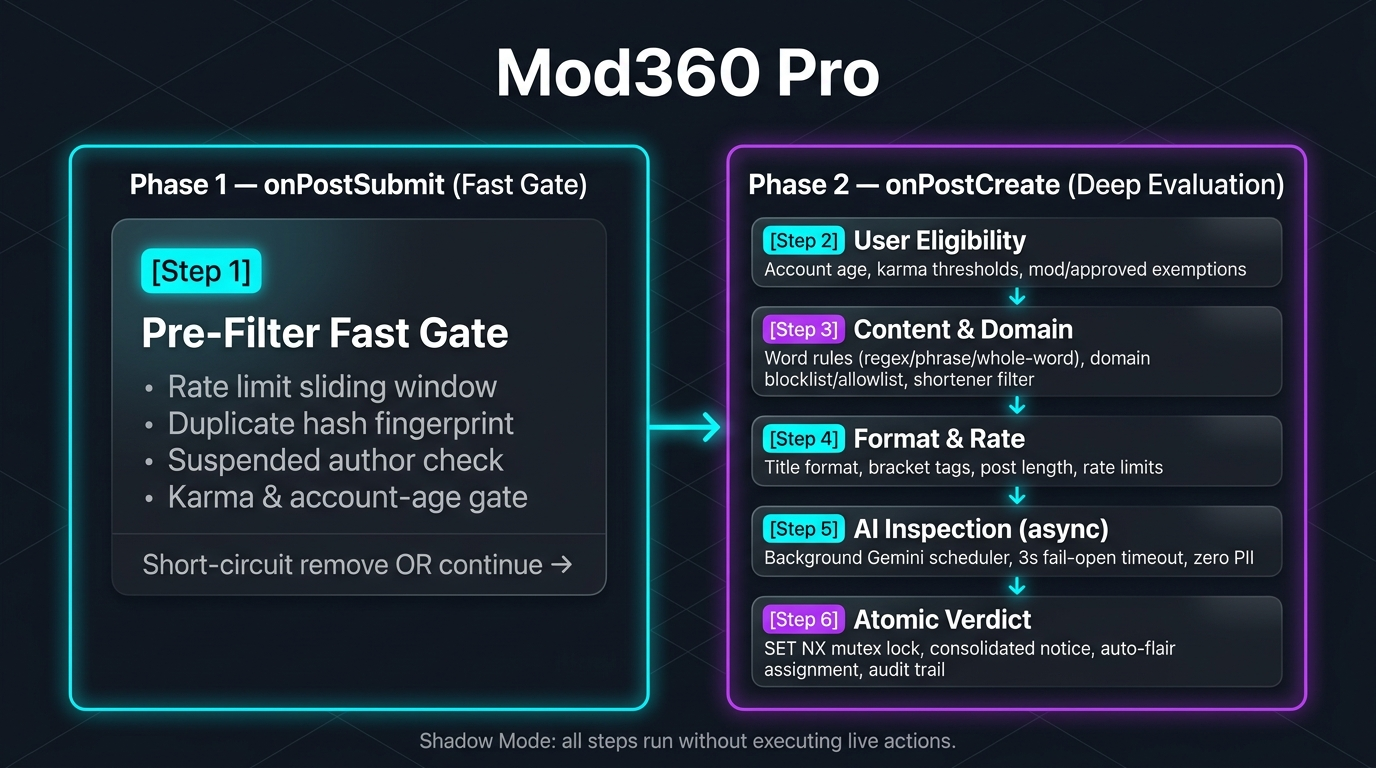
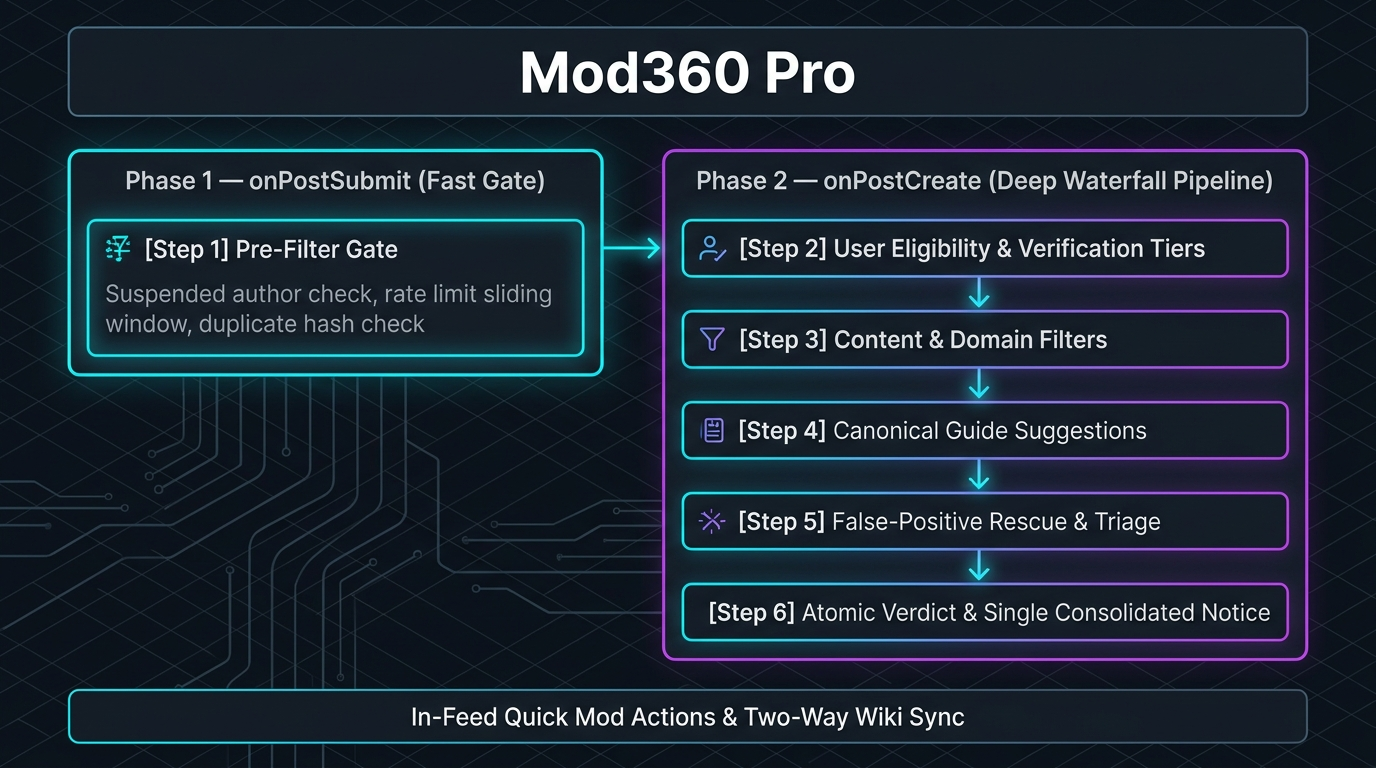
chore: update assets for ultimate-wwe v0.0.4

Changed region(s): [[0.0, 0.0312, 0.9688, 1.0]]

diff --git a/mod360pro/readme.html b/mod360pro/readme.html
@@ -1,11 +1,13 @@
 <blockquote><p>📖 <strong>User Guide &amp; Overview</strong> | ⚙ <a href="https://www.reddit.com/r/grantdb/wiki/index/all-apps/mod360pro">View Deep Technical Reference &amp; Settings Spec</a></p></blockquote>
 <h1>Mod360 Pro</h1>
-<blockquote><p><strong>The ultimate 360-degree Reddit moderation powerhouse consolidating 14+ moderation tools into a single, lightning-fast waterfall engine.</strong></p></blockquote>
-<p>Mod360 Pro unifies keyword filters, domain policies, rate limits, duplicate detection, user eligibility gates, auto-flairing, and AI spam inspection into a coordinated, atomic moderation pipeline. Eliminate container duplication, end multi-bot sticky comment spam, and control your entire community protection from a sleek glassmorphic dashboard.</p>
+<blockquote><p><strong>The ultimate 360-degree Reddit moderation powerhouse consolidating 14+ moderation tools — including suspended-remove, verify-guard, archive-guard, queue-guard, rescue-guard, wiki-guard, and mod-snapshot — into a single, lightning-fast waterfall engine.</strong></p></blockquote>
+<p>Mod360 Pro unifies keyword filters, domain policies, rate limits, duplicate detection, user eligibility & verification gates, canonical guide clustering, false-positive rescue triage, two-way wiki sync, and disaster recovery snapshots into a coordinated, atomic moderation pipeline. Eliminate container duplication, end multi-bot sticky comment spam, and control your entire community protection from a sleek glassmorphic dashboard.</p>
 <h3>⚡ Key Highlights</h3>
 <ul>
-<li><strong>Atomic Two-Phase Waterfall Engine</strong>: Sub-50ms pre-AutoMod Redis fast-path (`onPostSubmit`) for spam floods, followed by deep multi-module content evaluation (`onPostCreate`).</li>
+<li><strong>Atomic Two-Phase Waterfall Engine</strong>: Sub-10ms pre-AutoMod Redis fast-path (`onPostSubmit`) for spam floods, followed by deep multi-module content evaluation (`onPostCreate`).</li>
 <li><strong>Single Consolidated Moderation Notice</strong>: No more competing bot comments. Violations across all modules accumulate into exactly one structured, professional notice.</li>
+<li><strong>7 Consolidated Moderation Powerhouses</strong>: Built-in gates for suspended account pre-filtering, flair & email verification tiers, canonical wiki guide suggestions, 0–100 safety score calculation, false-positive rescue triage, two-way wiki sync, and modmail disaster recovery snapshots.</li>
+<li><strong>In-Feed Mod Quick Actions</strong>: Instant context menu tools (`Check Reputation`, `Quick Approve`, `Quick Remove`, and `Export Backup to Modmail`) directly on community posts and comments.</li>
 <li><strong>Mutual-Exclusion Atomic Verdict Lock</strong>: `SET NX` concurrency locks eliminate double-removal race conditions and container collisions across all trigger events.</li>
 <li><strong>Zero-Risk Shadow Testing Mode</strong>: Safely run Mod360 Pro in background shadow mode with automated divergence tracking before switching to live enforcement.</li>
 </ul>
@@ -13,10 +15,10 @@
 <h2>How It Works</h2>
 <p><a href="https://raw.githubusercontent.com/grantdb/reddit-app-legal/main/assets/flowcharts/mod360pro-flowchart.png">Logic Flowchart</a></p>
 <h3>The 5-Step Lifecycle</h3>
-<p>1. <strong>Pre-Filter (onPostSubmit)</strong>: New submissions hit fast Redis-only gates (< 50ms) to check suspended authors, sliding-window rate limits, duplicate hash fingerprints, and karma/age eligibility.</p>
+<p>1. <strong>Pre-Filter (onPostSubmit)</strong>: New submissions hit fast Redis-only gates (< 10ms) to check suspended/shadowbanned authors (`suspended-remove`), sliding-window rate limits, duplicate hash fingerprints, and verification gates (`verify-guard`).</p>
 <p>2. <strong>Deep Content Evaluation (onPostCreate)</strong>: Surviving posts undergo modular inspection for domain allow/blocklists, prohibited keywords, title formatting, and composite rules.</p>
-<p>3. <strong>Asynchronous AI Inspection</strong>: Content requiring deep semantic analysis is scheduled with zero delay for background Gemini evaluation without blocking the trigger handler.</p>
-<p>4. <strong>Atomic Verdict & Single Sticky Notice</strong>: When violations occur, Mod360 Pro locks the verdict atomically and formats a single, clean markdown notice with clear community guidelines.</p>
+<p>3. <strong>Canonical Guide Suggestions</strong>: Clean, non-violating submissions are evaluated against community topic keywords to suggest authoritative guides (`archive-guard`).</p>
+<p>4. <strong>Atomic Verdict & Single Sticky Notice</strong>: When violations occur, Mod360 Pro locks the verdict atomically, logs candidate details for false-positive rescue (`rescue-guard`), and formats a single clean markdown notice.</p>
 <p>5. <strong>Auto-Flair & Mod Actions</strong>: Clean submissions receive automated flair matching, while removed content is automatically locked and logged to the unified audit trail.</p>
 <p>---</p>
 <h2>Quick Setup (60-Second Onboarding)</h2>
@@ -24,15 +26,21 @@
 <p>2. <strong>Open Dashboard</strong>: Click <strong>GuardHub: Mod360 Pro Dashboard</strong> in Subreddit Mod Tools.</p>
 <p>3. <strong>Review Shadow Mode</strong>: Review the pre-configured rules in Shadow Mode to verify accuracy against live community traffic.</p>
 <p>4. <strong>Activate Live Enforcement</strong>: Once verified, toggle the operational mode to <strong>Live Enforcement</strong> in the Overview tab.</p>
-<p>*All settings, rules, and audit logs are managed directly within your native dashboard.*</p>
+<p>*All settings, rules, wiki sync, and audit logs are managed directly within your native dashboard.*</p>
 <p>---</p>
-<h2>Core Features</h2>
+<h2>Core Capabilities & Consolidated Powerhouses</h2>
 <ul>
-<li><strong>Unified Frequency Limiter</strong>: Sliding-window rate limiter preventing submission floods, burst spam, and rapid-fire cross-posting.</li>
-<li><strong>Domain & Shortener Guard</strong>: Built-in protection against link shorteners, affiliate redirects, and unapproved external domains.</li>
+<li><strong>Suspended Account Pre-Filter (`suspended-remove`)</strong>: Sub-10ms fast gate rejecting suspended, shadowbanned, or deleted accounts before other checks run.</li>
+<li><strong>Verification Tiers & Email Gates (`verify-guard`)</strong>: Require approved author flair templates, flair badges, or verified Reddit email addresses.</li>
+<li><strong>Canonical Guide Suggestions (`archive-guard`)</strong>: Automatically match submissions against community guide topics and post helpful guide links on clean posts.</li>
+<li><strong>Reputation Safety Score & Mod Menu Actions (`queue-guard`)</strong>: 0–100 reputation score calculated from account age, karma, and status with in-feed menu actions (`Check Reputation`, `Quick Approve`, `Quick Remove`).</li>
+<li><strong>False-Positive Rescue Hub (`rescue-guard`)</strong>: Triage hub in dashboard capturing edge-case removals for instant 1-click restoration.</li>
+<li><strong>Two-Way Wiki Policy Sync (`wiki-guard`)</strong>: Synchronize active content rules, domain policies, and user gates directly to and from `r/subreddit/wiki/mod360_rules`.</li>
+<li><strong>Disaster Recovery Backup (`mod-snapshot`)</strong>: 1-click snapshot dispatching the entire encrypted configuration to mod team modmail for permanent backup.</li>
+<li><strong>Sliding-Window Frequency Limiter</strong>: Redis sliding-window counters preventing burst spam, rapid submissions, and cross-posting floods.</li>
+<li><strong>Domain & Shortener Guard</strong>: Built-in blocklists for URL shorteners, chat invites, tracking parameters, and unapproved domains.</li>
 <li><strong>Regex & Keyword Engine</strong>: Multi-pattern keyword groups with word-boundary matching, case-sensitivity controls, and instant test simulation.</li>
-<li><strong>Automated Shadow Parity Queue</strong>: Automatically logs discrepancies between legacy moderation actions and Mod360 Pro predictions for zero-risk migration.</li>
-<li><strong>Fleet Standard Responsive Dashboard</strong>: Native, inline webview control center with smooth 48px stepped tab scrolling and mobile auto-zoom protection.</li>
+<li><strong>Fleet Standard Responsive Dashboard</strong>: Native webview control center with theme switching (☀/🌙), fullscreen mode (⛶/🗗), 48px stepped tab navigation, and mobile auto-zoom protection.</li>
 </ul>
 <p>---</p>
 <h2>The Old Way vs. The Mod360 Pro Way</h2>

diff --git a/mod360pro/wiki.html b/mod360pro/wiki.html
@@ -11,15 +11,6 @@ Summary: Unified 360-degree moderation engine and waterfall pipeline consolidati
 <h2>Flowchart</h2>
 <p><a href="https://raw.githubusercontent.com/grantdb/reddit-app-legal/main/assets/flowcharts/mod360pro-flowchart.png">View flowchart image</a></p>
 
-<h2>Key Features</h2>
-<ul>
-<li>Unified Frequency Limiter: Sliding-window rate limiter preventing submission floods, burst spam, and rapid-fire cross-posting.</li>
-<li>Domain & Shortener Guard: Built-in protection against link shorteners, affiliate redirects, and unapproved external domains.</li>
-<li>Regex & Keyword Engine: Multi-pattern keyword groups with word-boundary matching, case-sensitivity controls, and instant test simulation.</li>
-<li>Automated Shadow Parity Queue: Automatically logs discrepancies between legacy moderation actions and Mod360 Pro predictions for zero-risk migration.</li>
-<li>Fleet Standard Responsive Dashboard: Native, inline webview control center with smooth 48px stepped tab scrolling and mobile auto-zoom protection.</li>
-</ul>
-
 <h2>Permissions Used</h2>
 <ul>
 <li>reddit: Reddit API access (moderation actions, post/comment fetching, modmail)</li>
@@ -42,9 +33,9 @@ Summary: Unified 360-degree moderation engine and waterfall pipeline consolidati
 <ul>
 <li>Submits Automated Comments: Yes — Posts automated comments on target submissions.</li>
 <li>Attaches Removal Notes: No — Does not attach removal notes.</li>
-<li>Approves Content: No — Does not approve content.</li>
+<li>Approves Content: Yes — Automatically approves eligible content.</li>
 <li>Removes or Filters Content: Yes — Removes or filters non-compliant submissions.</li>
-<li>Dispatches Modmail Alerts: No — Does not send modmail notifications.</li>
+<li>Dispatches Modmail Alerts: Yes — Sends notifications or summaries to modmail.</li>
 <li>Updates User or Post Flair: Yes — Updates post or user flair based on rules.</li>
 </ul>
 
@@ -61,7 +52,7 @@ Summary: Unified 360-degree moderation engine and waterfall pipeline consolidati
 <li>Open Dashboard: Click GuardHub: Mod360 Pro Dashboard in Subreddit Mod Tools.</li>
 <li>Review Shadow Mode: Review the pre-configured rules in Shadow Mode to verify accuracy against live community traffic.</li>
 <li>Activate Live Enforcement: Once verified, toggle the operational mode to Live Enforcement in the Overview tab.</li>
-<li>All settings, rules, and audit logs are managed directly within your native dashboard.*</li>
+<li>All settings, rules, wiki sync, and audit logs are managed directly within your native dashboard.*</li>
 </ul>
 
 <h2>Troubleshooting</h2>

diff --git a/ultimate-wwe/wiki.html b/ultimate-wwe/wiki.html
@@ -1,7 +1,7 @@
 <h1>Ultimate WWE Hub</h1>
 
 <p>Category: Interactive<br>
-Version: v0.0.3<br>
+Version: v0.0.4<br>
 Visibility: Unlisted<br>
 Summary: Interactive WWE live event mega-thread engine with match cards, pick 'em prediction game, and dual leaderboards.</p>
 
@@ -56,12 +56,12 @@ Summary: Interactive WWE live event mega-thread engine with match cards, pick 'e
 </ul>
 
 <h2>Version History</h2>
+<p>0.0.4 — 2026-09-23<br>
+Standard fleet synchronization and maintenance.</p>
 <p>0.0.3 — 2026-09-21<br>
 Standard fleet synchronization and maintenance.</p>
 <p>0.0.2 — 2026-09-20<br>
 Standard fleet synchronization and maintenance.; All notable changes to the Ultimate WWE Hub application will be documented in this file.</p>
-<p>0.2.0 — 2026-09-20<br>
-Expanded Ultimate WWE Hub into a multi-post ecosystem with 3 dedicated custom post types:; Live Event & Prediction Mega-Threads; Community Championship Belts Trophy Case & All-Time Leaderboards; Upcoming Matches & PLE Schedule Hub; Implemented Community Championship Belts Engine featuring World Heavyweight, Intercontinental, PLE Cup, 24/7 Hardcore, and Women's World Championship titles with automated title defense and transfers on event scoring.; Added Live PLE Countdown Timer with millisecond precision and weekly broadcast schedule guide (Raw on Netflix, SmackDown on USA, NXT on CW).; Added Community Hype Voting Meter for upcoming fight cards and shows.; Added cross-post navigation hub banner connecting all community posts.; Implemented canonical horizontal top-bar navigation scrolling (◀ and ▶) with 48px fine-tuned steps, continuous long-press acceleration, and visible high-contrast scrollbars.; Added moderator controls to manually award championship belts to community members.</p>
 
 <h2>Links</h2>
 <ul>

diff --git a/mod360pro/readme.md b/mod360pro/readme.md
@@ -2,13 +2,15 @@
 
 # Mod360 Pro
 
-> **The ultimate 360-degree Reddit moderation powerhouse consolidating 14+ moderation tools into a single, lightning-fast waterfall engine.**
+> **The ultimate 360-degree Reddit moderation powerhouse consolidating 14+ moderation tools — including suspended-remove, verify-guard, archive-guard, queue-guard, rescue-guard, wiki-guard, and mod-snapshot — into a single, lightning-fast waterfall engine.**
 
-Mod360 Pro unifies keyword filters, domain policies, rate limits, duplicate detection, user eligibility gates, auto-flairing, and AI spam inspection into a coordinated, atomic moderation pipeline. Eliminate container duplication, end multi-bot sticky comment spam, and control your entire community protection from a sleek glassmorphic dashboard.
+Mod360 Pro unifies keyword filters, domain policies, rate limits, duplicate detection, user eligibility & verification gates, canonical guide clustering, false-positive rescue triage, two-way wiki sync, and disaster recovery snapshots into a coordinated, atomic moderation pipeline. Eliminate container duplication, end multi-bot sticky comment spam, and control your entire community protection from a sleek glassmorphic dashboard.
 
 ### ⚡ Key Highlights
-- **Atomic Two-Phase Waterfall Engine**: Sub-50ms pre-AutoMod Redis fast-path (`onPostSubmit`) for spam floods, followed by deep multi-module content evaluation (`onPostCreate`).
+- **Atomic Two-Phase Waterfall Engine**: Sub-10ms pre-AutoMod Redis fast-path (`onPostSubmit`) for spam floods, followed by deep multi-module content evaluation (`onPostCreate`).
 - **Single Consolidated Moderation Notice**: No more competing bot comments. Violations across all modules accumulate into exactly one structured, professional notice.
+- **7 Consolidated Moderation Powerhouses**: Built-in gates for suspended account pre-filtering, flair & email verification tiers, canonical wiki guide suggestions, 0–100 safety score calculation, false-positive rescue triage, two-way wiki sync, and modmail disaster recovery snapshots.
+- **In-Feed Mod Quick Actions**: Instant context menu tools (`Check Reputation`, `Quick Approve`, `Quick Remove`, and `Export Backup to Modmail`) directly on community posts and comments.
 - **Mutual-Exclusion Atomic Verdict Lock**: `SET NX` concurrency locks eliminate double-removal race conditions and container collisions across all trigger events.
 - **Zero-Risk Shadow Testing Mode**: Safely run Mod360 Pro in background shadow mode with automated divergence tracking before switching to live enforcement.
 
@@ -20,10 +22,10 @@ Mod360 Pro unifies keyword filters, domain policies, rate limits, duplicate dete
 
 ### The 5-Step Lifecycle
 
-1. **Pre-Filter (onPostSubmit)**: New submissions hit fast Redis-only gates (< 50ms) to check suspended authors, sliding-window rate limits, duplicate hash fingerprints, and karma/age eligibility.
+1. **Pre-Filter (onPostSubmit)**: New submissions hit fast Redis-only gates (< 10ms) to check suspended/shadowbanned authors (`suspended-remove`), sliding-window rate limits, duplicate hash fingerprints, and verification gates (`verify-guard`).
 2. **Deep Content Evaluation (onPostCreate)**: Surviving posts undergo modular inspection for domain allow/blocklists, prohibited keywords, title formatting, and composite rules.
-3. **Asynchronous AI Inspection**: Content requiring deep semantic analysis is scheduled with zero delay for background Gemini evaluation without blocking the trigger handler.
-4. **Atomic Verdict & Single Sticky Notice**: When violations occur, Mod360 Pro locks the verdict atomically and formats a single, clean markdown notice with clear community guidelines.
+3. **Canonical Guide Suggestions**: Clean, non-violating submissions are evaluated against community topic keywords to suggest authoritative guides (`archive-guard`).
+4. **Atomic Verdict & Single Sticky Notice**: When violations occur, Mod360 Pro locks the verdict atomically, logs candidate details for false-positive rescue (`rescue-guard`), and formats a single clean markdown notice.
 5. **Auto-Flair & Mod Actions**: Clean submissions receive automated flair matching, while removed content is automatically locked and logged to the unified audit trail.
 
 ---
@@ -35,17 +37,23 @@ Mod360 Pro unifies keyword filters, domain policies, rate limits, duplicate dete
 3. **Review Shadow Mode**: Review the pre-configured rules in Shadow Mode to verify accuracy against live community traffic.
 4. **Activate Live Enforcement**: Once verified, toggle the operational mode to **Live Enforcement** in the Overview tab.
 
-*All settings, rules, and audit logs are managed directly within your native dashboard.*
+*All settings, rules, wiki sync, and audit logs are managed directly within your native dashboard.*
 
 ---
 
-## Core Features
+## Core Capabilities & Consolidated Powerhouses
 
-- **Unified Frequency Limiter**: Sliding-window rate limiter preventing submission floods, burst spam, and rapid-fire cross-posting.
-- **Domain & Shortener Guard**: Built-in protection against link shorteners, affiliate redirects, and unapproved external domains.
+- **Suspended Account Pre-Filter (`suspended-remove`)**: Sub-10ms fast gate rejecting suspended, shadowbanned, or deleted accounts before other checks run.
+- **Verification Tiers & Email Gates (`verify-guard`)**: Require approved author flair templates, flair badges, or verified Reddit email addresses.
+- **Canonical Guide Suggestions (`archive-guard`)**: Automatically match submissions against community guide topics and post helpful guide links on clean posts.
+- **Reputation Safety Score & Mod Menu Actions (`queue-guard`)**: 0–100 reputation score calculated from account age, karma, and status with in-feed menu actions (`Check Reputation`, `Quick Approve`, `Quick Remove`).
+- **False-Positive Rescue Hub (`rescue-guard`)**: Triage hub in dashboard capturing edge-case removals for instant 1-click restoration.
+- **Two-Way Wiki Policy Sync (`wiki-guard`)**: Synchronize active content rules, domain policies, and user gates directly to and from `r/subreddit/wiki/mod360_rules`.
+- **Disaster Recovery Backup (`mod-snapshot`)**: 1-click snapshot dispatching the entire encrypted configuration to mod team modmail for permanent backup.
+- **Sliding-Window Frequency Limiter**: Redis sliding-window counters preventing burst spam, rapid submissions, and cross-posting floods.
+- **Domain & Shortener Guard**: Built-in blocklists for URL shorteners, chat invites, tracking parameters, and unapproved domains.
 - **Regex & Keyword Engine**: Multi-pattern keyword groups with word-boundary matching, case-sensitivity controls, and instant test simulation.
-- **Automated Shadow Parity Queue**: Automatically logs discrepancies between legacy moderation actions and Mod360 Pro predictions for zero-risk migration.
-- **Fleet Standard Responsive Dashboard**: Native, inline webview control center with smooth 48px stepped tab scrolling and mobile auto-zoom protection.
+- **Fleet Standard Responsive Dashboard**: Native webview control center with theme switching (☀/🌙), fullscreen mode (⛶/🗗), 48px stepped tab navigation, and mobile auto-zoom protection.
 
 ---
 
@@ -55,8 +63,9 @@ Mod360 Pro unifies keyword filters, domain policies, rate limits, duplicate dete
 | :--- | :--- |
 | 10–15 separate apps spinning up redundant containers per post | **Single container, unified pipeline** with 93% less resource overhead |
 | 2–3 different bots posting competing sticky comments on removed posts | **Exactly one consolidated notice** detailing all rule violations clearly |
-| Multiple fragmented settings panels across a dozen different apps | **One centralized glassmorphic control center** with 7 organized tabs |
-| Untraceable race conditions and double-removals in mod log | **Atomic `SET NX` locks** guaranteeing deterministic, single-owner execution |
+| Multiple fragmented settings panels across a dozen different apps | **One centralized glassmorphic control center** with 10 organized tabs |
+| Manual, untraceable false-positive recoveries across separate queues | **Integrated Rescue Hub & 0–100 Reputation Safety Score** |
+| Fragile local settings lost on app uninstall or reinstall | **Automated Two-Way Wiki Sync & Modmail Disaster Backups** |
 
 ---
 

diff --git a/mod360pro/wiki.md b/mod360pro/wiki.md
@@ -12,11 +12,7 @@ Unified 360-degree moderation engine and waterfall pipeline consolidating 14+ mo
 [View flowchart image](https://raw.githubusercontent.com/grantdb/reddit-app-legal/main/assets/flowcharts/mod360pro-flowchart.png)
 
 ## Key Features
-- Unified Frequency Limiter: Sliding-window rate limiter preventing submission floods, burst spam, and rapid-fire cross-posting.
-- Domain & Shortener Guard: Built-in protection against link shorteners, affiliate redirects, and unapproved external domains.
-- Regex & Keyword Engine: Multi-pattern keyword groups with word-boundary matching, case-sensitivity controls, and instant test simulation.
-- Automated Shadow Parity Queue: Automatically logs discrepancies between legacy moderation actions and Mod360 Pro predictions for zero-risk migration.
-- Fleet Standard Responsive Dashboard: Native, inline webview control center with smooth 48px stepped tab scrolling and mobile auto-zoom protection.
+- Not documented yet.
 
 ## Permissions Used
 - reddit: Reddit API access (moderation actions, post/comment fetching, modmail)
@@ -41,9 +37,9 @@ Subreddit moderators configure the app in Mod Tools -> App Settings.
 ## Automation Capabilities
 - Submits Automated Comments: Yes — Posts automated comments on target submissions.
 - Attaches Removal Notes: No — Does not attach removal notes.
-- Approves Content: No — Does not approve content.
+- Approves Content: Yes — Approves content.
 - Removes or Filters Content: Yes — Removes or filters non-compliant submissions.
-- Dispatches Modmail Alerts: No — Does not send modmail notifications.
+- Dispatches Modmail Alerts: Yes — Sends modmail notifications.
 - Updates User or Post Flair: Yes — Updates post or user flair based on rules.
 
 ## Data Storage
@@ -57,7 +53,7 @@ This app utilizes Reddit Redis storage for state management, caching, and rate l
 - Open Dashboard: Click GuardHub: Mod360 Pro Dashboard in Subreddit Mod Tools.
 - Review Shadow Mode: Review the pre-configured rules in Shadow Mode to verify accuracy against live community traffic.
 - Activate Live Enforcement: Once verified, toggle the operational mode to Live Enforcement in the Overview tab.
-- All settings, rules, and audit logs are managed directly within your native dashboard.*
+- All settings, rules, wiki sync, and audit logs are managed directly within your native dashboard.*
 
 ## Troubleshooting
 - Check app console logs via devvit logs <subreddit> for real-time diagnostic output.

diff --git a/ultimate-wwe/wiki.md b/ultimate-wwe/wiki.md
@@ -1,7 +1,7 @@
 # Ultimate WWE Hub
 
 Category: Interactive  
-Version: v0.0.3  
+Version: v0.0.4  
 Visibility: Unlisted  
 Summary: Interactive WWE live event mega-thread engine with match cards, pick 'em prediction game, and dual leaderboards.
 
@@ -54,24 +54,15 @@ This app utilizes Reddit Redis storage for state management, caching, and rate l
 - Ensure all required app settings and API keys are properly configured in Mod Tools.
 
 ## Version History
+0.0.4 — 2026-09-23
+- Standard fleet synchronization and maintenance.
+
 0.0.3 — 2026-09-21
 - Standard fleet synchronization and maintenance.
 
 0.0.2 — 2026-09-20
 - Standard fleet synchronization and maintenance.
 - All notable changes to the Ultimate WWE Hub application will be documented in this file.
-
-0.2.0 — 2026-09-20
-- Expanded Ultimate WWE Hub into a multi-post ecosystem with 3 dedicated custom post types:
-- Live Event & Prediction Mega-Threads
-- Community Championship Belts Trophy Case & All-Time Leaderboards
-- Upcoming Matches & PLE Schedule Hub
-- Implemented Community Championship Belts Engine featuring World Heavyweight, Intercontinental, PLE Cup, 24/7 Hardcore, and Women's World Championship titles with automated title defense and transfers on event scoring.
-- Added Live PLE Countdown Timer with millisecond precision and weekly broadcast schedule guide (Raw on Netflix, SmackDown on USA, NXT on CW).
-- Added Community Hype Voting Meter for upcoming fight cards and shows.
-- Added cross-post navigation hub banner connecting all community posts.
-- Implemented canonical horizontal top-bar navigation scrolling (◀ and ▶) with 48px fine-tuned steps, continuous long-press acceleration, and visible high-contrast scrollbars.
-- Added moderator controls to manually award championship belts to community members.
 
 ## Links
 - [Terms of Service](https://github.com/grantdb/reddit-app-legal/blob/main/ultimate-wwe/TERMS.md)
